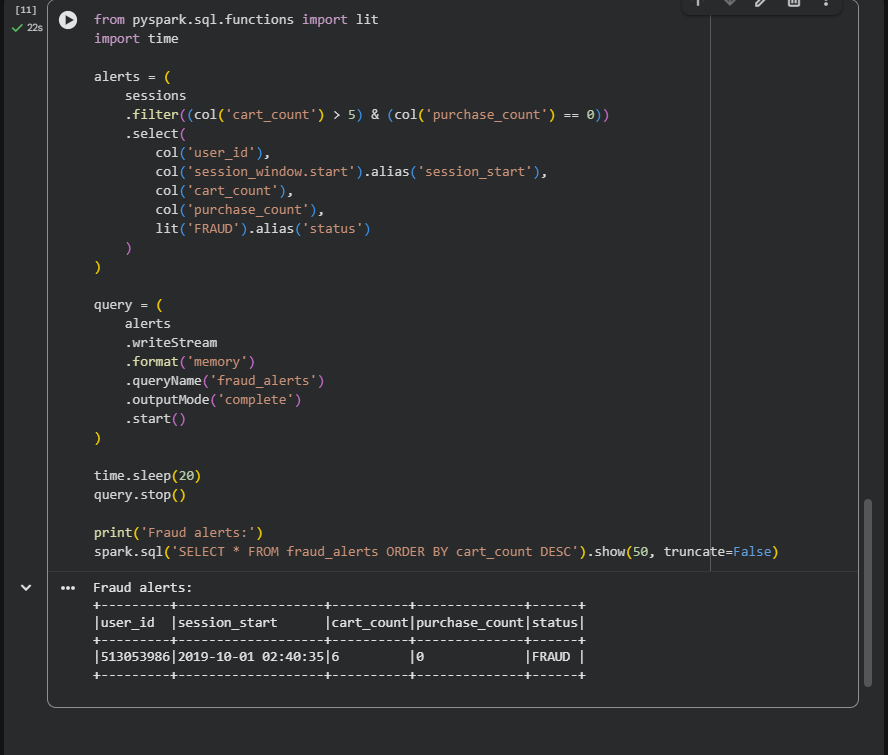
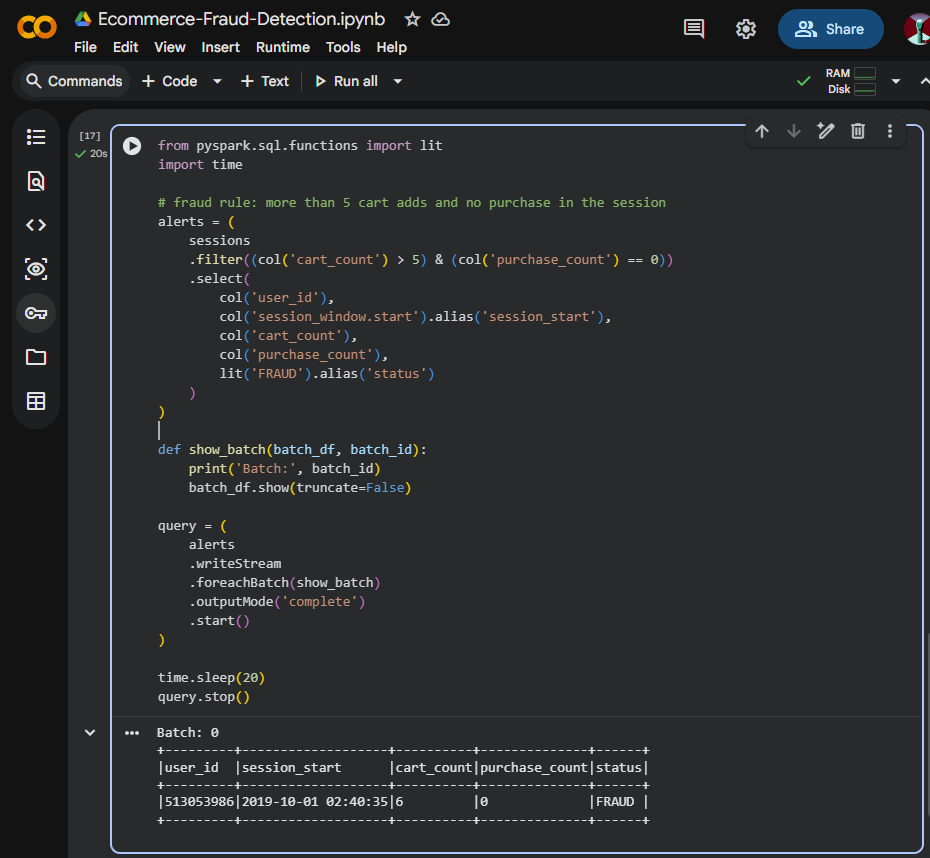
Add files via upload

diff --git a/README.md b/README.md
@@ -37,6 +37,7 @@ it found 1 user in the sample:
 
 ```
 Fraud alerts:
+Batch: 0
 +---------+-------------------+----------+--------------+------+
 |user_id  |session_start      |cart_count|purchase_count|status|
 +---------+-------------------+----------+--------------+------+